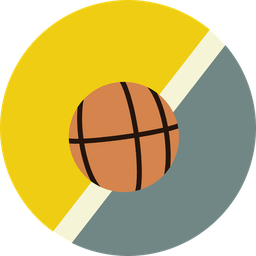
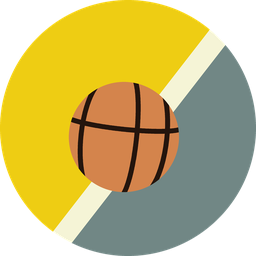
标志 v3.1：横缝回到球心上方 0.28R，把俯视感找回来
用户要求：横缝更靠上、还原俯视感。

上一版为了不头重脚轻把横缝压到球心上方 0.10R，等于把照片的
斜俯视摆正成侧面平视——球看着像正对着放。照片实测是 0.46R，
取 0.28R：再高球顶那圈三条缝就挤，再低又退回平视。

顺带修了一个方向错误：整组倾角写的是 -8°，画布 y 轴向下，
负角把横缝掰成右高左低，和照片（左高右低、往右下走 5°）正好相反。
改成 +6°，横缝方向与照片一致。

试过给竖缝单独再加 5°~8°（照片里竖缝右倾 17°），测下来会和右侧
那条弧在球顶、球底并线，48px 下糊成双线，放弃；维持整组同倾 6°。

eq 的两个参数分工写进 README：cy 定整条缝的高低，b 定中央下凹多少。

Changed region(s): [[0.25, 0.3125, 0.7188, 0.75], [0.375, 0.7188, 0.4062, 0.75]]

diff --git a/brand/render_v3.py b/brand/render_v3.py
@@ -22,8 +22,10 @@
   左右两条经线贴着球缘只剩 0.08R。逐点照抄的结果是上半球挤成一团、
   左右线变成第二圈轮廓，看起来像地球仪。
   所以按"简体画"的方式提炼：保留四条缝的相对方位与倾斜，
-  但把它们放到能读出来的位置——交叉点回到球心附近，左右弧离缘 0.2R。
+  但把它们放到能读出来的位置——横缝留到球心上方 0.28R（照片 0.46R 太挤，
+  0.10R 又退回侧面平视，0.28R 是这两头之间能读出俯视感的位置），左右弧离缘 0.22R。
   球缝端点在球缘处彼此分开、各自收口，不汇聚成乱线（这一点是像不像篮球的关键）。
+  整组倾斜 +6°（画布 y 向下，顺照片"横缝左高右低"的方向）；写成负角会反过来。
 """
 from pathlib import Path
 from math import hypot, cos, sin, pi, radians
@@ -56,7 +58,7 @@ SS = 4                      # 超采样，缩回 S 时线条自然抗锯齿
 BIG = S * SS
 U = BIG / 100.0
 
-TILT = radians(-8)          # 整组球缝随球的姿态微倾（照片里横缝左高右低）
+TILT = radians(6)           # 整组球缝随球的姿态倾：照片里横缝左高右低，约 5°
 
 
 def _ell(cx, cy, a, b, t0, t1, n=150):
@@ -71,7 +73,7 @@ def _ell(cx, cy, a, b, t0, t1, n=150):
 
 def _seams():
     mer = _ell(0.03, 0, 0.20, 1.10, -pi / 2, pi / 2)          # 经线：穿过球心，微右凸
-    eq = _ell(0, -0.10, 1.06, -0.10, pi, 2 * pi)              # 赤道：球心略上，中央下凹
+    eq = _ell(0, -0.28, 1.06, -0.14, pi, 2 * pi)              # 纬线：球心上方 0.28R，中央下凹（俯视的近边）
     left = _ell(-0.42, 0, 0.36, 1.04, pi / 2, 1.5 * pi)       # 左经线，凸向左，离缘 0.22R
     right = _ell(0.42, 0, 0.36, 1.04, -pi / 2, pi / 2)        # 右经线，凸向右
     return [mer, eq, left, right]

diff --git a/brand/README-v3.md b/brand/README-v3.md
@@ -43,21 +43,26 @@ v2 的测量把照片宽高都归一化到 100，等于把 639×737 压成正方
 
 所以最终按简体画的方式提炼，规则三条：
 
-1. **交叉点回到球心附近**（照片 0.46R → 0.10R）。球不再头重脚轻。
+1. **横缝留在球心上方 0.28R**（初版为了"不头重脚轻"压到了 0.10R，结果俯视感全丢，球像正对着看）。照片实测 0.46R，取 0.28R 是上限的一半：再高球顶那圈就挤，再低就退回侧面平视。
 2. **左右弧离球缘 0.22R**。离得太近会变成描边，太远又挤中间。
 3. **四条缝的端点在球缘处各自收口，互不汇聚**。这条是"像不像篮球"的胜负手——端点一旦在球顶拉在一起，立刻变成经纬网。
 
-四条缝都用椭圆弧生成（球面上任何球缝的正交投影都是椭圆），整组再绕画心倾斜 −8°，对应照片里横缝左高右低的姿态。
+四条缝都用椭圆弧生成（球面上任何球缝的正交投影都是椭圆），整组再绕画心倾斜 **+6°**，对应照片里横缝左高右低、往右下走约 5° 的姿态。注意符号：画布 y 轴向下，顺照片方向是正角；写成负角会把横缝掰成右高左低，和照片相反（这是改版时踩过的坑）。
 
 ```python
-mer   = _ell( 0.03, 0,   0.20, 1.10, -π/2, π/2)    # 经线，穿过球心，微右凸
-eq    = _ell( 0,   -0.10, 1.06, -0.10, π, 2π)      # 赤道，中央下凹
-left  = _ell(-0.42, 0,   0.36, 1.04, π/2, 1.5π)    # 左经线，离缘 0.22R
-right = _ell( 0.42, 0,   0.36, 1.04, -π/2, π/2)    # 右经线
-TILT  = −8°
+mer   = _ell( 0.03, 0,    0.20, 1.10, -π/2, π/2)   # 经线，穿过球心，微右凸
+eq    = _ell( 0,    -0.28, 1.06, -0.14, π, 2π)     # 纬线，球心上方 0.28R，中央下凹
+left  = _ell(-0.42, 0,    0.36, 1.04, π/2, 1.5π)   # 左经线，离缘 0.22R
+right = _ell( 0.42, 0,    0.36, 1.04, -π/2, π/2)   # 右经线
+TILT  = +6°
 ```
 
-想更贴近照片的俯视感，把 `eq` 的 `cy` 往上推（−0.10 → −0.30），代价是球下半部会空。
+`eq` 的两个数分工不同：`cy` 决定整条缝的高低（俯视感的强弱），`b` 决定中间往下凹多少（凹得越多，越像"近边"朝观者翻过来）。
+
+```python
+eq = _ell(0, -0.28, 1.06, -0.14, π, 2π)
+#           ↑cy 定高低        ↑b 定下凹
+```
 
 ## 参数
 
